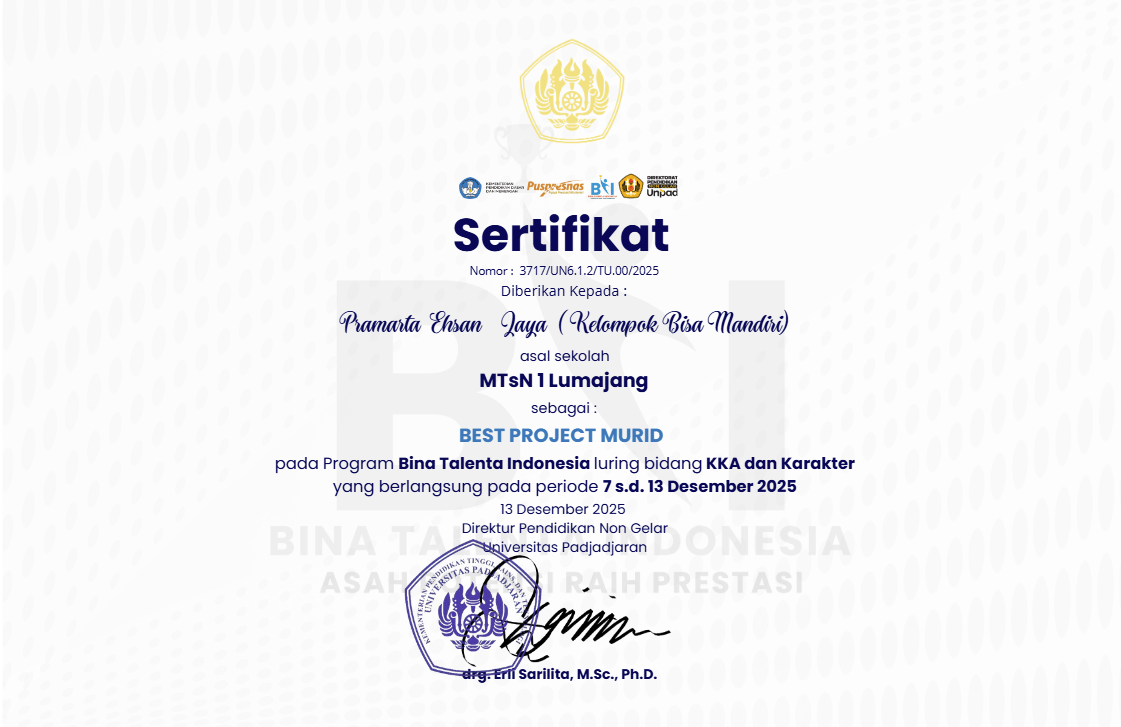
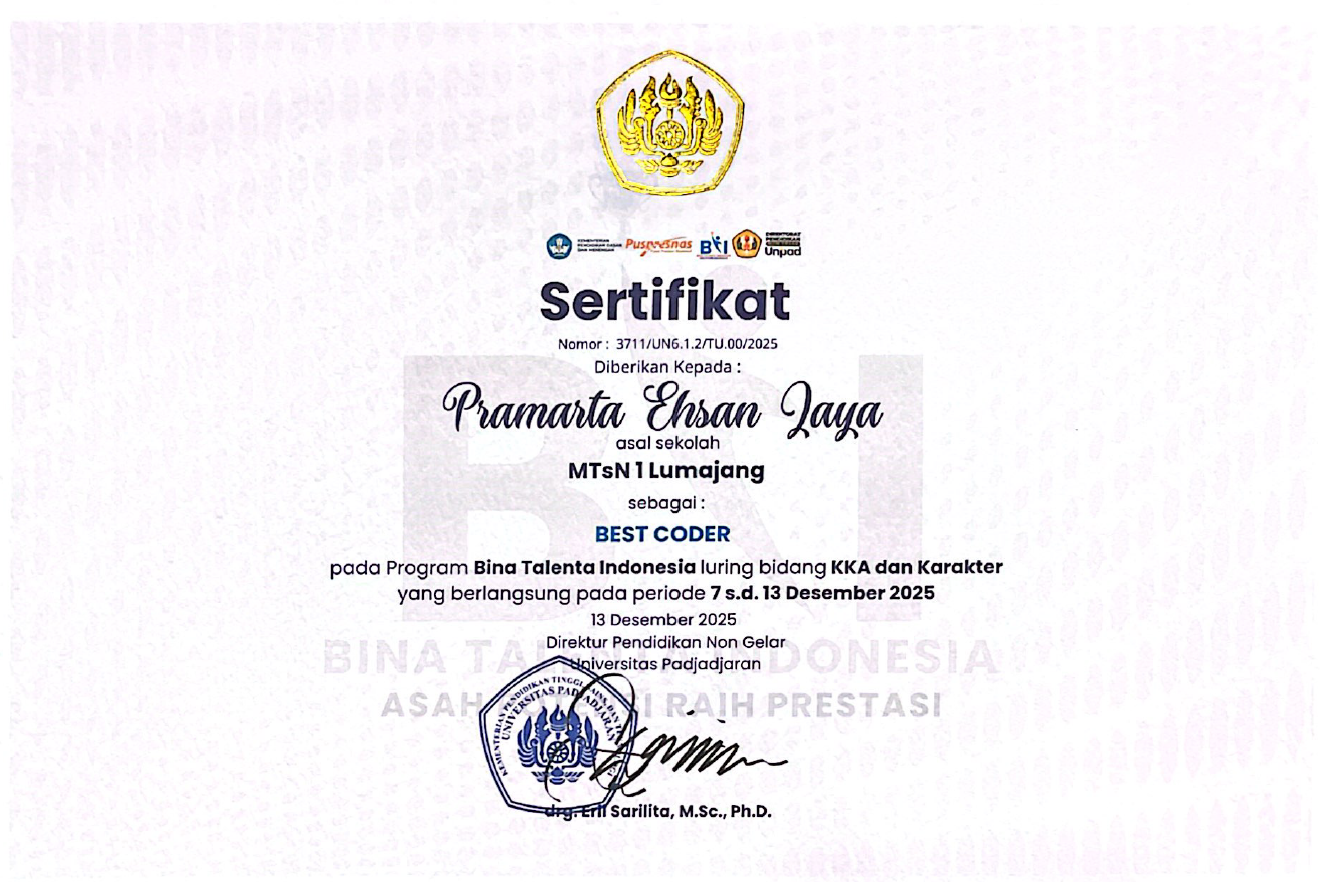
puspresnas

Changed region(s): [[0.2498, 0.0605, 0.7806, 0.9381], [0.562, 0.7868, 0.7181, 0.8171]]

diff --git a/README.md b/README.md
@@ -44,7 +44,7 @@ C# | Kotlin | Python | Unity | Android Jetpack Compose | YOLO
     [Pangkalan Data Kekayaan Intelektual](https://pdki-indonesia.dgip.go.id/link/45433030323032353138353239307c636f70797269676874) 
 
 3. **2025 - Juara 1 Bina Talenta Indonesia - Puspresnas**  
-    *Juara 1 The Best Project Koding dan Kecerdasan Artifisial (KKA) di Universitas Padjadjaran (Unpad), Jatinangor, 7-13 Desember 2025 yang diselenggarakan oleh Puspresnas. Judul aplikasi: Bisa Mandiri, Asisten AI Mobile Untuk Membantu Tuna Grahita Mengenal Obyek*  
+    *Terpilih sebagai The Best Coder dan Juara 1 The Best Project Koding dan Kecerdasan Artifisial (KKA) di Universitas Padjadjaran (Unpad), Jatinangor, 7-13 Desember 2025 yang diselenggarakan oleh Puspresnas. Judul aplikasi: Bisa Mandiri, Asisten AI Mobile Untuk Membantu Tuna Grahita Mengenal Obyek*  
 
     ![BTI](/assets/img/bti_2025.png)  
     ![BTI](/assets/img/bti_2025_1.png)  
@@ -56,7 +56,7 @@ C# | Kotlin | Python | Unity | Android Jetpack Compose | YOLO
     [Bina Talenta Indonesia](https://binatalenta.kemendikdasmen.go.id)  
     [Bisa Mandiri](https://github.com/ehsanjaya/bisamandiri) 
 
-4. **2025 - Gold Bidang Inovasi Berbasis Kemanusiaan dan Sosial InYSIA 2025 - Terkurasi Puspresnas**  
+4. **2025 - Gold Bidang Inovasi Berbasis Kemanusiaan dan Sosial InYSIA 2025 (Terkurasi Puspresnas)**  
     *Indonesia Young Scientists and Inventors Award 2025 (Abak Academy), Universitas Gajah Mada (UGM), Yogyakarta.*  
     [emurojaahquran.github.io](https://emurojaahquran.github.io/)
 
@@ -67,7 +67,7 @@ C# | Kotlin | Python | Unity | Android Jetpack Compose | YOLO
     [InYSIA](https://inysia.com/finalis-inysia-jenjang-smp-mts-sederajat)  
     [Pemenang InYSIA](https://www.youtube.com/live/JXrVFrt_8IY?si=M_hy06JoxzwXHJhv)
 
-5. **2025 - Juara 2 Bidang Komputer Lomba Peneliti Belia PUTech 2025 - Terkurasi Puspresnas**  
+5. **2025 - Juara 2 Bidang Komputer Lomba Peneliti Belia PUTech 2025 (Terkurasi Puspresnas)**  
     *Lomba Peneliti Belia & International Scientific Paper Competition 2025, Politeknik PU (PUtech) Semarang.*  
     
     ![Sertifikat](/assets/img/lpb_2025.png)  
@@ -77,7 +77,7 @@ C# | Kotlin | Python | Unity | Android Jetpack Compose | YOLO
     [Berita Jatim](https://beritajatim.com/pelajar-madrasah-lumajang-raih-prestasi-tingkat-nasional)  
     [Politeknik PU](https://politeknikpu.ac.id/2025/09/05/putechnovation-2025-resmi-ditutup-inilah-para-pemenang-lpb-dan-lkti)
     
-6. **2025 - Best Top 4 Indonesia Aerospace Hakathon 2025 - Terkurasi Puspresnas**  
+6. **2025 - Best Top 4 Indonesia Aerospace Hakathon 2025 (Terkurasi Puspresnas)**  
     *Satu-satunya peserta sekolah menengah pertama yang terpilih best top 4 diantara mahasiswa UI, PENS, Binus dan UPN di 21st Asia Pacific Satellite International Conference Hakathon 2025 diselenggarakan Asosiasi Satelit Seluruh Indonesia (ASSI), Fairmont Hotel Jakarta.*  
 
     [planetarium360.github.io](https://planetarium360.github.io/)
@@ -115,7 +115,7 @@ C# | Kotlin | Python | Unity | Android Jetpack Compose | YOLO
     Referensi:  
     [Pemenang IRTC 2025](https://rapmafm-ukm.ums.ac.id/2025/01/dua-siswa-man-1-pasuruan-raih-medali.html)  
 
-10. **2024 - Gold Indonesian Scratch Competition 2024 - Terkurasi Puspresnas**  
+10. **2024 - Gold Indonesian Scratch Competition 2024 (Terkurasi Puspresnas)**  
     *Coding game animation by Scratch STEM-SPARK 2024, Universitas Langlangbuana, Bandung.*  
 
     ![Keterangan](/assets/img/isc_2024.png)  
